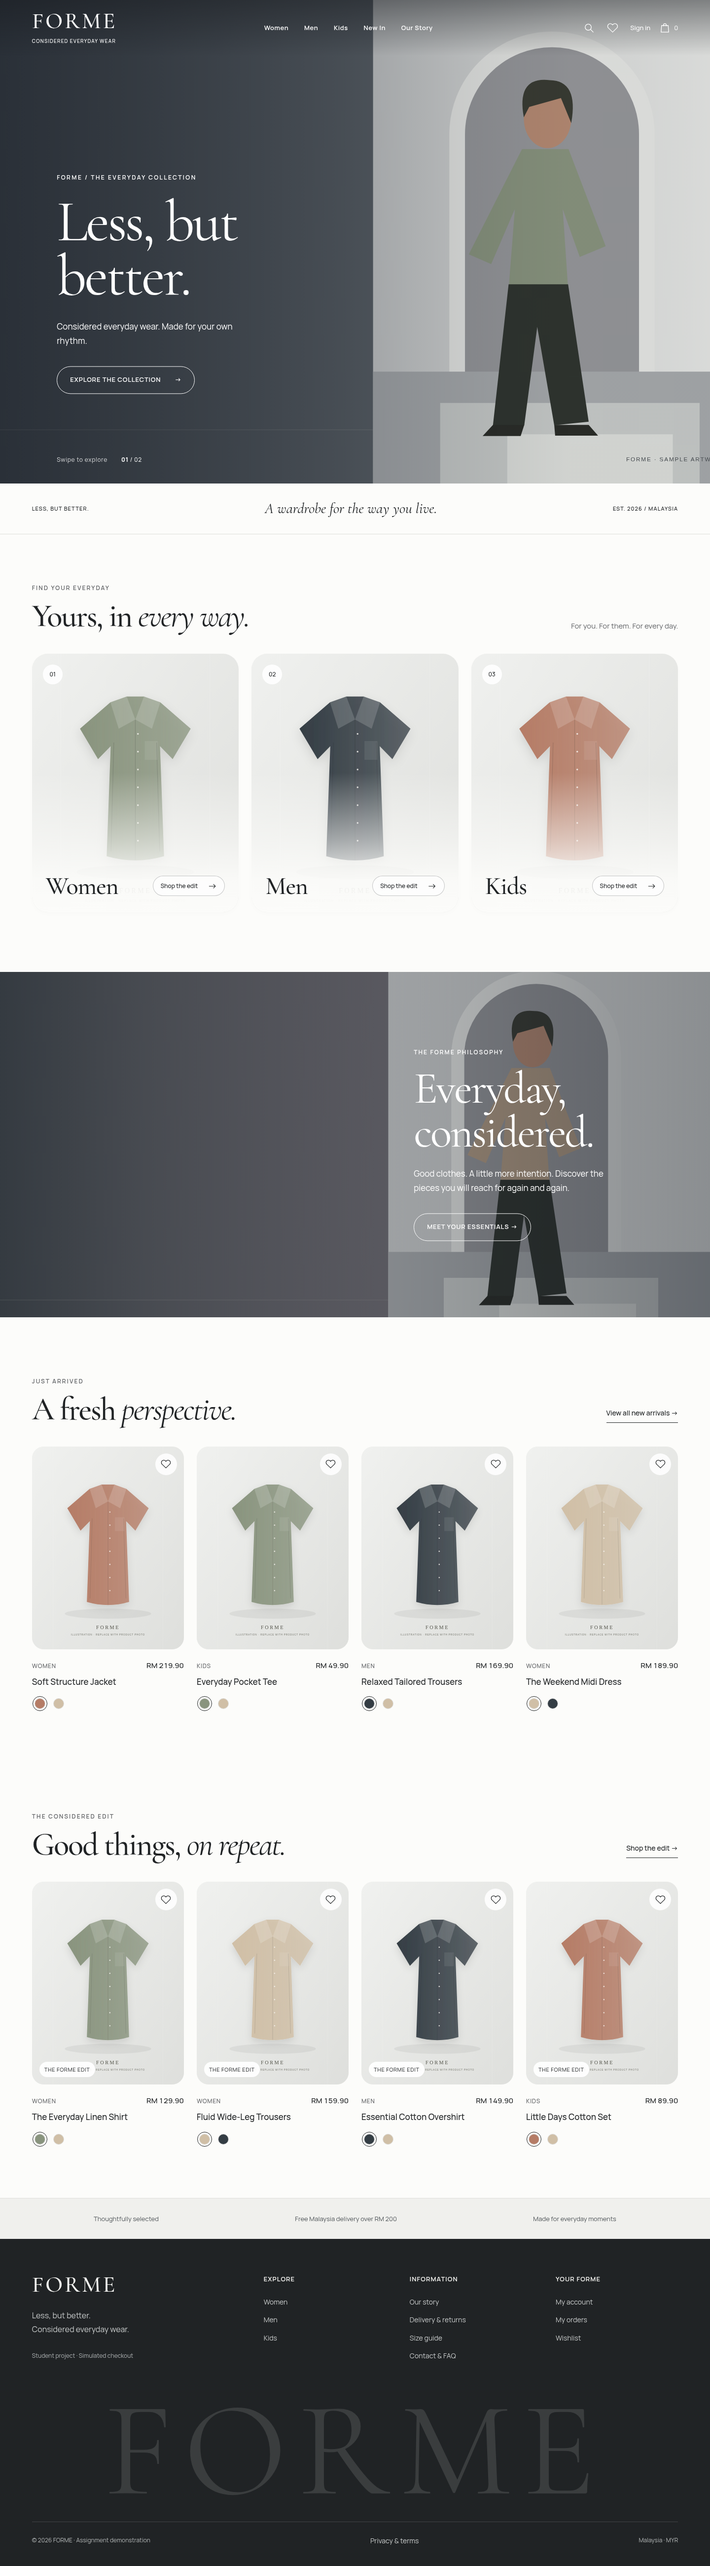
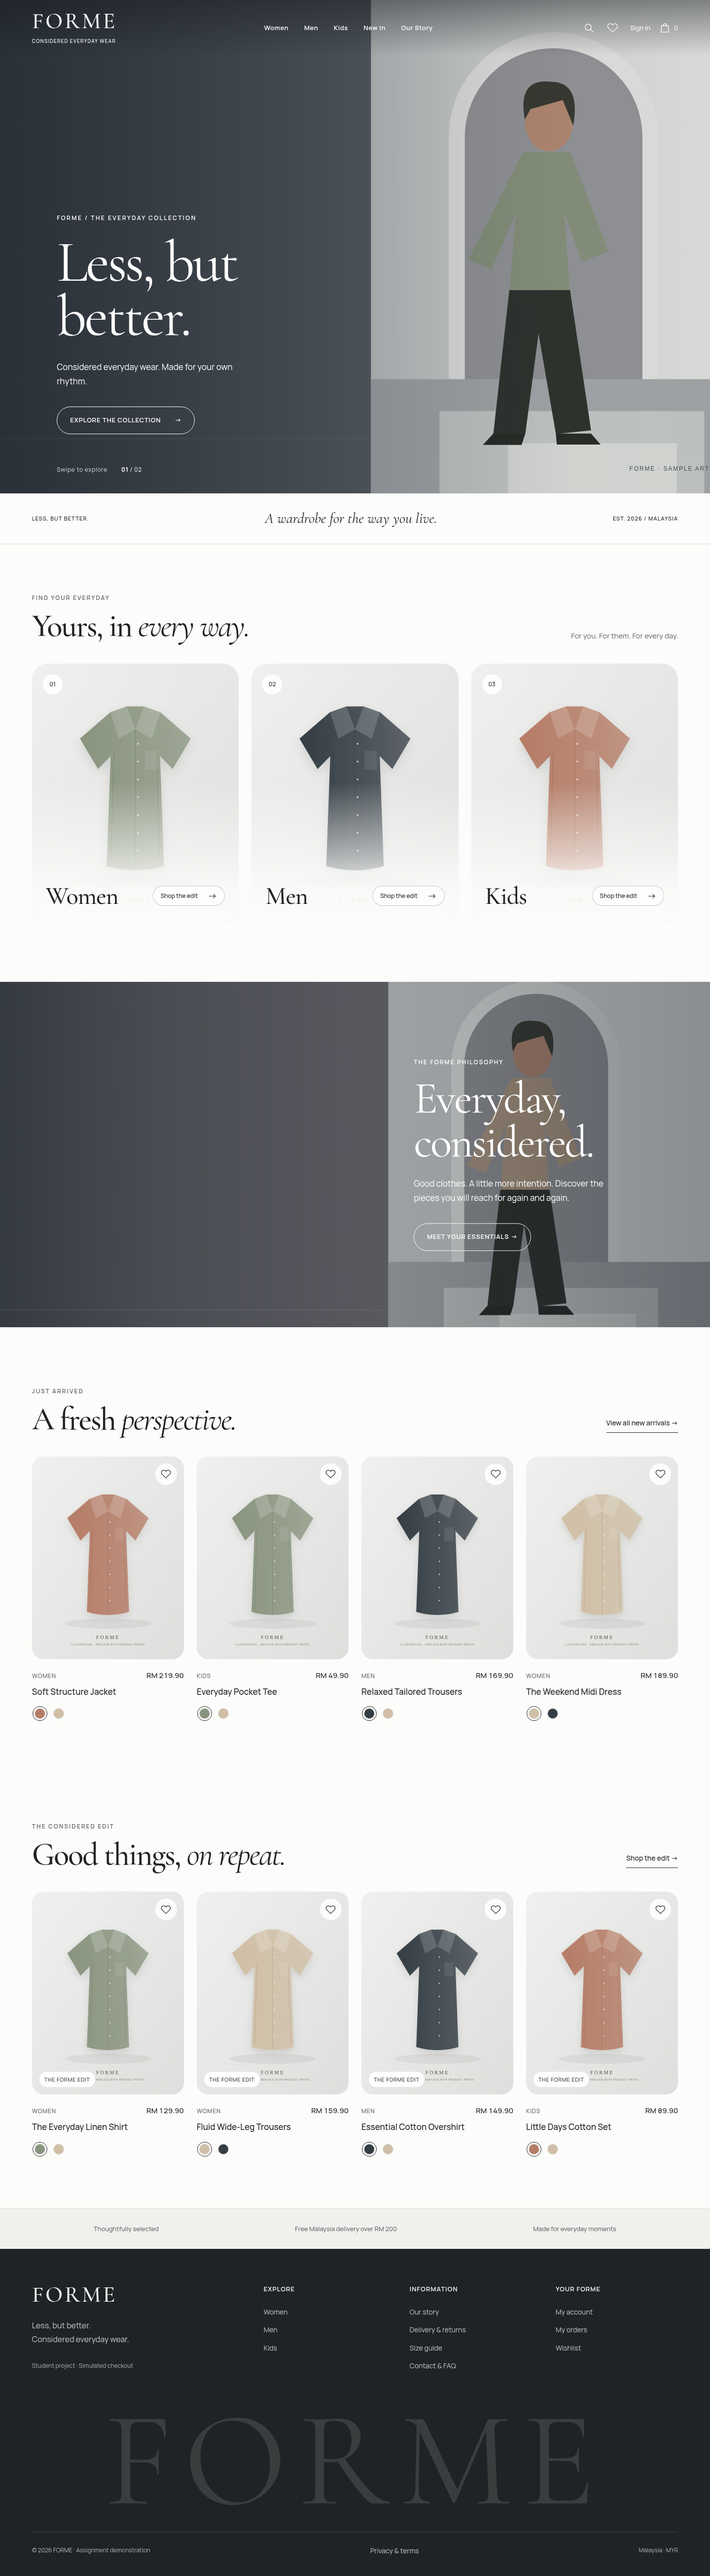
Make the homepage hero fill the entire first screen edge to edge

diff --git a/assets/style.css b/assets/style.css
@@ -168,19 +168,25 @@ input:disabled, select:disabled, button:disabled { opacity: .45; cursor: not-all
 .brand-logo { width: 160px; max-height: 65px; object-fit: contain; }
 
 /* Homepage / editorial scale, fine rules and deliberate white space. */
-.hero { height: min(980px, 100svh); min-height: 700px; position: relative; overflow: hidden; border-radius: 0; background: #4e5255; color: white; }
+/* Full-bleed first screen: the fixed overlay navigation does not add to its height. */
+.hero {
+  position: relative; width: 100%; max-width: none;
+  height: 100vh; height: 100svh; min-height: 0;
+  margin: 0; padding: 0; overflow: hidden; border-radius: 0;
+  background: #4e5255; color: white;
+}
 .hero-slide { position: absolute; inset: 0; opacity: 0; visibility: hidden; pointer-events: none; color: var(--banner-text); transition: opacity 1.1s var(--ease); }
 .hero-slide.active { opacity: 1; visibility: visible; pointer-events: auto; }
 .hero-slide picture, .hero-slide img, .campaign picture, .campaign img { position: absolute; inset: 0; width: 100%; height: 100%; }
-.hero-slide img { object-position: 65% center; }
+.hero-slide img { object-fit: cover; object-position: 65% center; }
 .hero-shade { position: absolute; inset: 0; background: linear-gradient(90deg, #11172170, #11172110 80%); }
-.hero-copy { position: absolute; left: 8%; top: 50%; transform: translateY(-31%); max-width: 650px; padding-right: 24px; }
+.hero-copy { position: absolute; left: 8%; top: auto; bottom: clamp(100px, 12svh, 160px); transform: none; max-width: 650px; padding-right: 24px; }
 .hero-copy .eyebrow { margin-bottom: 26px; font-size: 12px; letter-spacing: .2em; }
 .hero-copy h1 { font-size: clamp(74px, 8.2vw, 132px); line-height: .93; font-weight: 400; letter-spacing: -.035em; margin-bottom: 32px; }
 .hero-copy > p:not(.eyebrow) { max-width: 390px; font-size: 17px; line-height: 1.75; }
 .hero-copy .btn { margin-top: 12px; min-width: 244px; }
 .align-right .hero-copy { left: auto; right: 7%; }
-.align-center .hero-copy { left: 50%; width: 90%; transform: translate(-50%, -31%); text-align: center; }
+.align-center .hero-copy { left: 50%; width: 90%; transform: translateX(-50%); text-align: center; }
 .align-center .hero-copy > p { margin-inline: auto; }
 .intro-line { display: flex; align-items: center; justify-content: space-between; gap: 30px; padding: 32px var(--gutter); border-bottom: 1px solid var(--line); }
 .intro-line > span { font-size: 11px; letter-spacing: .1em; font-weight: 500; }
@@ -511,13 +517,12 @@ tbody tr:hover { background: #f7f7f4; }
   .header-tools > a[title] { width: 32px; }
   .header-tools svg { width: 21px; height: 21px; }
   .account-link { font-size: 12px; }
-  .hero { min-height: 710px; height: 93svh; }
   .hero .hero-shade { background: linear-gradient(90deg, #11172199, #11172166); }
-  .hero-copy { left: var(--gutter); right: var(--gutter); top: 47%; transform: translateY(-27%); max-width: 520px; padding-right: 0; }
+  .hero-copy { left: var(--gutter); right: var(--gutter); top: auto; transform: none; max-width: 520px; padding-right: 0; }
   .hero-copy h1 { font-size: clamp(70px, 12vw, 90px); line-height: .95; }
   .hero-copy > p:not(.eyebrow) { font-size: 16px; max-width: 320px; }
   .hero-copy .eyebrow { font-size: 11px; }
-      .align-right .hero-copy { right: var(--gutter); }
+  .align-right .hero-copy { right: var(--gutter); }
   .intro-line { justify-content: center; padding-block: 27px; }
   .intro-line > span { display: none; }
   .intro-line p { font-size: 28px; text-align: center; }
@@ -594,13 +599,12 @@ tbody tr:hover { background: #f7f7f4; }
   .header-tools svg { width: 20px; height: 20px; }
   .account-link { padding-inline: 4px; }
   .bag-link { gap: 3px; font-size: 12px; }
-  .hero { min-height: 690px; }
-  .hero-copy { top: 43%; transform: translateY(-20%); }
+  .hero-copy { top: auto; transform: none; }
   .hero-copy h1 { font-size: clamp(64px, 16vw, 76px); max-width: 360px; margin-bottom: 26px; }
   .hero-copy .eyebrow { max-width: 260px; font-size: 11px; }
   .hero-copy > p:not(.eyebrow) { max-width: 285px; }
   .hero-copy .btn { min-width: 0; font-size: 12px; padding-inline: 22px; }
-  .align-center .hero-copy { transform: translate(-50%, -20%); }
+  .align-center .hero-copy { transform: translateX(-50%); }
   .intro-line p { font-size: 26px; }
   .section { padding-block: 58px; }
   .section-heading { display: block; margin-bottom: 30px; }
@@ -676,6 +680,23 @@ tbody tr:hover { background: #f7f7f4; }
 }
 @media (max-width: 360px) {
   .site-header { padding-inline: 14px; }
+}
+/* Short laptop and landscape screens keep the CTA below the overlay navigation. */
+@media (max-height: 760px) {
+  .hero-copy { bottom: 78px; }
+  .hero-copy .eyebrow { margin-bottom: 14px; }
+  .hero-copy h1 { font-size: clamp(48px, 10svh, 80px); margin-bottom: 18px; }
+  .hero-copy > p:not(.eyebrow) { font-size: 15px; line-height: 1.55; margin-bottom: 16px; }
+  .hero-copy .btn { min-height: 48px; padding: 12px 22px; margin-top: 0; }
+  .hero-browse-hint { bottom: 22px; }
+}
+@media (max-height: 500px) {
+  .hero-copy { bottom: 50px; }
+  .hero-copy .eyebrow { display: none; }
+  .hero-copy h1 { font-size: clamp(34px, 9svh, 44px); margin-bottom: 12px; }
+  .hero-copy > p:not(.eyebrow) { font-size: 14px; line-height: 1.4; margin-bottom: 12px; }
+  .hero-copy .btn { min-height: 44px; padding: 10px 20px; font-size: 12px; }
+  .hero-browse-hint { bottom: 14px; }
 }
 @media (prefers-reduced-motion: reduce) {
   html { scroll-behavior: auto; }

diff --git a/docs/TESTING.md b/docs/TESTING.md
@@ -162,3 +162,9 @@ Updated screenshots include home desktop/mobile, product, login, homepage-conten
 - Long accepted copy remains inside the banner at 320, 390 and 1440px using a content-driven minimum height. No JavaScript errors were observed in the main run.
 
 New screenshots: category-desktop.png, category-mobile.png and category-banner-admin.png. Home and homepage-content screenshots have been refreshed. No database schema migration is needed. The hero now uses manual browsing rather than autoplay so only one action is displayed over each poster.
+
+## Edge-to-edge first-screen hero — 6 November 2026
+
+100 Chromium geometry and visibility assertions passed across 11 viewport sizes: 320×568, 390×844, 414×896, 768×1024, 1024×768, 1366×768, 1440×900, 1920×1080, 2560×1440, 844×390 and 390×390. The hero and its cover image start at (0,0), span the document width and match viewport height; all four corners measure 0px. The navigation remains fixed above the image. Both sample slides retain visible copy and exactly one shopping action below the navigation, with no horizontal overflow or JavaScript errors.
+
+`hero-fullscreen.png` and `hero-fullscreen-mobile.png` capture only the first screen. The full-page home previews are also updated. Only presentation styles changed; no database migration or business-function changes are included.

diff --git a/README.md b/README.md
@@ -18,7 +18,7 @@ Read **[the illustrated-by-steps Chinese Windows guide](docs/WINDOWS-SETUP.md)**
 ## Implemented areas
 
 - Customer registration, sign in/out, profile, saved-address CRUD; administrator customer CRUD with order-history protection.
-- Hero/campaign banner CRUD, upload preview, text colour/alignment/link/order/visibility settings, optional mobile banner images. The square main hero shows one shopping CTA and uses manual swipe/arrow-key browsing.
+- Hero/campaign banner CRUD, upload preview, text colour/alignment/link/order/visibility settings, optional mobile banner images. The square main hero fills the complete first viewport, edge to edge, beneath a fixed overlay navigation. It shows one shopping CTA and uses manual swipe/arrow-key browsing.
 - Display-only department/subcategory landscape headers, with independent desktop/mobile uploads, heading and colour settings, department inheritance and reset support. This editor belongs to content management; it is not a separate assignment module.
 - Women/Men/Kids category CRUD, product CRUD, homepage featured edit, catalogue search/filter/sort.
 - Colour/size variant CRUD, per-variant stock and image, extra colour-specific gallery photos, low-stock overview.

diff --git a/docs/UPDATE-DESIGN.md b/docs/UPDATE-DESIGN.md
@@ -46,3 +46,9 @@
 - 后台入口：**Manage store → Category page banners**。选择页面 → Load banner → 编辑文字、文字颜色及电脑／手机图片 → Save category banner。这里没有按钮链接设置。
 - 未配置的子分类使用所属部门的图片；保存子分类后可独立设置。Reset to default / department banner 清除当前页面覆盖设置，不会删除图片文件。
 - Homepage 的分类卡片图片仍在 Departments & categories 管理，和分类页顶部横幅分开。
+
+## 顶部大海报：完整第一屏
+
+顶部主海报现在左右贴满浏览器边缘，四角为直角，高度占满第一屏。透明导航叠在图片上，不会另外挤占海报高度。图片按原比例铺满，边缘可能裁切，不会拉伸变形；可以另上传适合手机构图的海报。短屏与横屏会自动缩小文案与按钮间距，保留购物入口。
+
+此调整不改数据库。完整 ZIP 已包含最新样式及所有前面的分类横幅、圆角卡片和后台功能。
